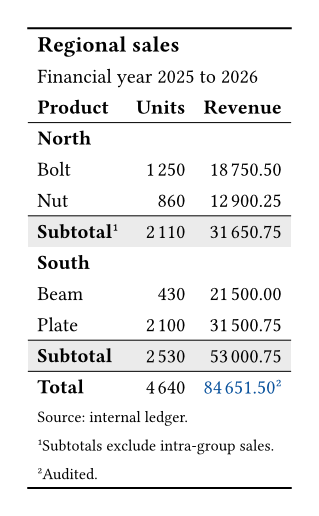
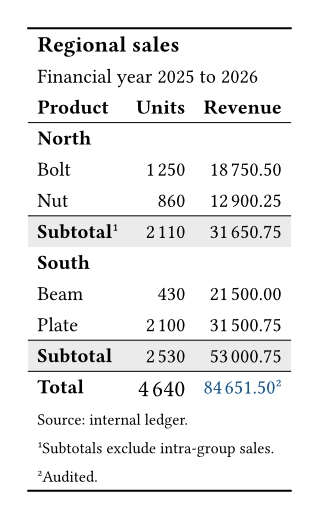
chore: fit every rendered page to its content

diff --git a/CHANGELOG.md b/CHANGELOG.md
@@ -4,6 +4,8 @@ All notable changes to this project will be documented in this file.
 
 ## [Unreleased]
 
+- test: every test page grows to fit what it holds, so a rendered image is the table rather than the table and a field of white; `tools/check.sh` holds them to it. (#24)
+
 - feat: `columns-combine()` builds one column from several, the pattern reading the formatted content of its sources so each keeps the formatting its own directive gave it. (#23)
 - feat: a serialised specification carries a combine as a template, `"{1} ({2})"`, numbering its sources from one, since JSON cannot hold a closure. (#23)
 - fix: where a combined column sits is resolved once every directive has landed, so hiding a source before or after the combine reads the same, as it already did for `columns-move()`. (#23)

diff --git a/CONTRIBUTING.md b/CONTRIBUTING.md
@@ -49,6 +49,14 @@ See [`tests/probe/README.md`](tests/probe/README.md); the rule that matters is t
 - Commit messages follow Conventional Commits, subject line only, ideally under 50 characters.
 - Record user-facing changes under `## Unreleased` in [`CHANGELOG.md`](CHANGELOG.md).
 
+Set every test page to grow with what it holds, so a rendered image is the table rather than the table and a field of white:
+
+```typ
+#set page(width: auto, height: auto, margin: 0.5cm)
+```
+
+`tests/visual/breakable.typ` is the only exception, and the only one there can be: a page that grows never breaks, and breaking is what it tests.
+
 After changing a visual test, regenerate the images the documentation shows:
 
 ```bash
